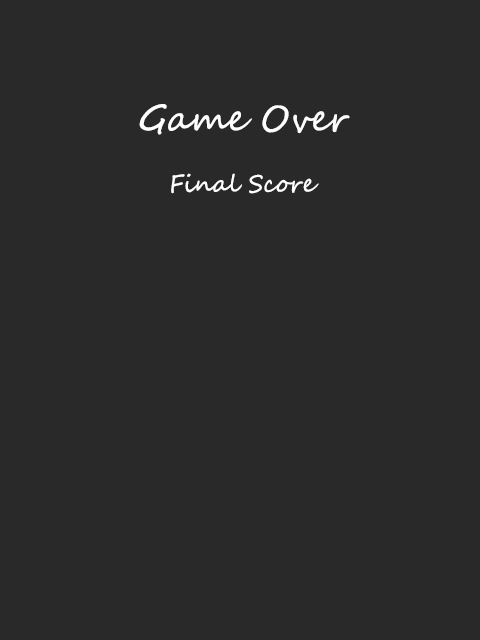
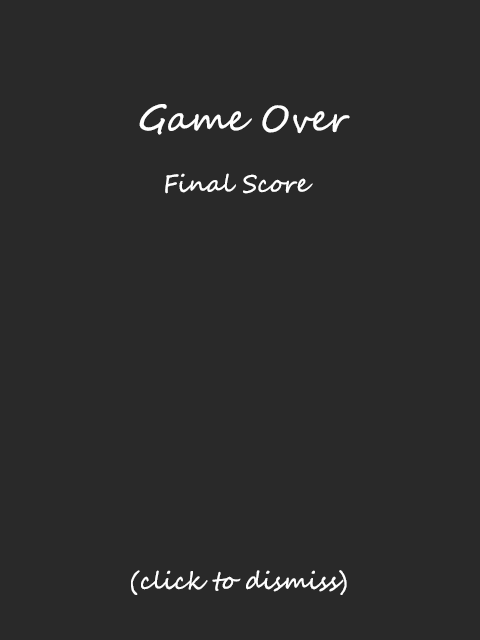
better gameover screen

Changed region(s): [[0.25, 0.875, 0.7188, 0.9375], [0.3438, 0.25, 0.6562, 0.3125]]

diff --git a/Classes/GameLayer.cpp b/Classes/GameLayer.cpp
@@ -95,7 +95,7 @@ void GameLayer::update(float delta )
 
 void GameLayer::setupPlayer()
 {
-	player = new Player(5, 4);
+	player = new Player(100, 4);
 	player->retain();
 }
 
@@ -198,6 +198,8 @@ void GameLayer::setupSkillButton()
 
  void GameLayer::processKeyboardInputs()
  {
+	 if(!keyboard) return;
+
 	 if(keyboard->wasKeyPressed(InputKey::Key_ESC)){
 		CCDirector::sharedDirector()->replaceScene(TitleScreen::scene());
 		return;
@@ -373,6 +375,9 @@ void GameLayer::updatePlayerExp()
 
 void GameLayer::showGameOver(CCObject* pSender)
 {
+	delete keyboard;
+	keyboard = NULL;
+
 	this->addChild(new GameOverScreen(player->getScore()), zGameover);
 }
 

diff --git a/Classes/GameOverScreen.cpp b/Classes/GameOverScreen.cpp
@@ -83,7 +83,7 @@ void GameOverScreen::setupLabel()
 }
 
 void GameOverScreen::update(float dt){
-	if(keyboard->wasAnyKeyPressed())
+	if(keyboard->wasKeyPressed(Key_ESC))
 	{
 		CCDirector::sharedDirector()->replaceScene(TitleScreen::scene());
 	}
